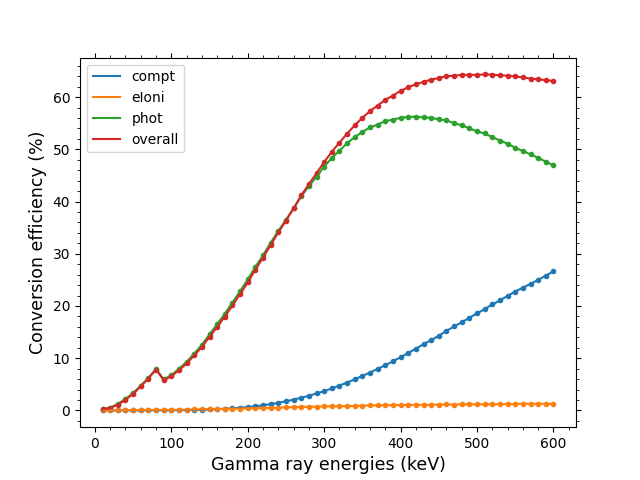
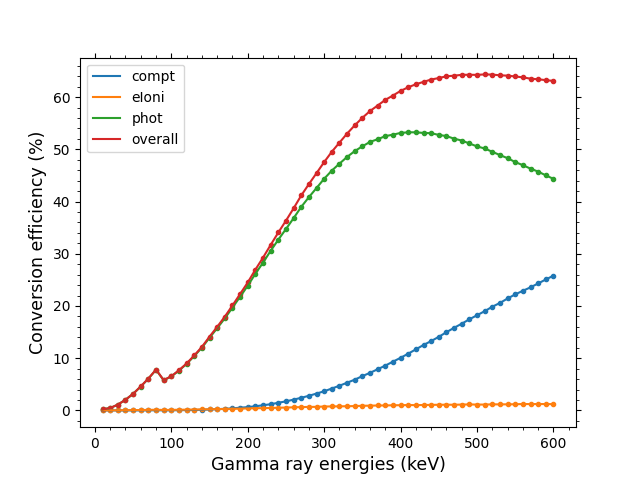
new figs

diff --git a/data/analyze_processes/plot_procs.py b/data/analyze_processes/plot_procs.py
@@ -2,7 +2,7 @@ import numpy as np
 from matplotlib import pyplot as plt
 import pickle
 
-pickle_object_path = r'data/analyze_processes/peek_procs.pkl'
+pickle_object_path = r'data/analyze_processes/g4_glass_lead_procs.pkl'
 gamma_ray_energies = np.linspace(10, 600, 60, dtype=int)
 
 
@@ -22,5 +22,19 @@ with open(pickle_object_path, 'rb') as f:
     ax.xaxis.set_ticks_position('both')
     ax.yaxis.set_ticks_position('both')
     plt.minorticks_on()
+
+    fig, ax = plt.subplots()
+    for proc in proc_plot_dict:
+        if proc == 'overall':
+            continue
+        ax.plot(gamma_ray_energies, 100*proc_plot_dict[proc]/proc_plot_dict['overall'], label=proc)
+        ax.scatter(gamma_ray_energies, 100*proc_plot_dict[proc]/proc_plot_dict['overall'], marker='.')
+    ax.legend()
+    ax.set_xlabel('Gamma ray energies (keV)', fontdict=dict(size=12.5))
+    ax.set_ylabel('Fraction of converted electrons (%)', fontdict=dict(size=12.5))
+    ax.xaxis.set_ticks_position('both')
+    ax.yaxis.set_ticks_position('both')
+    plt.minorticks_on()
     plt.show()
+
 
